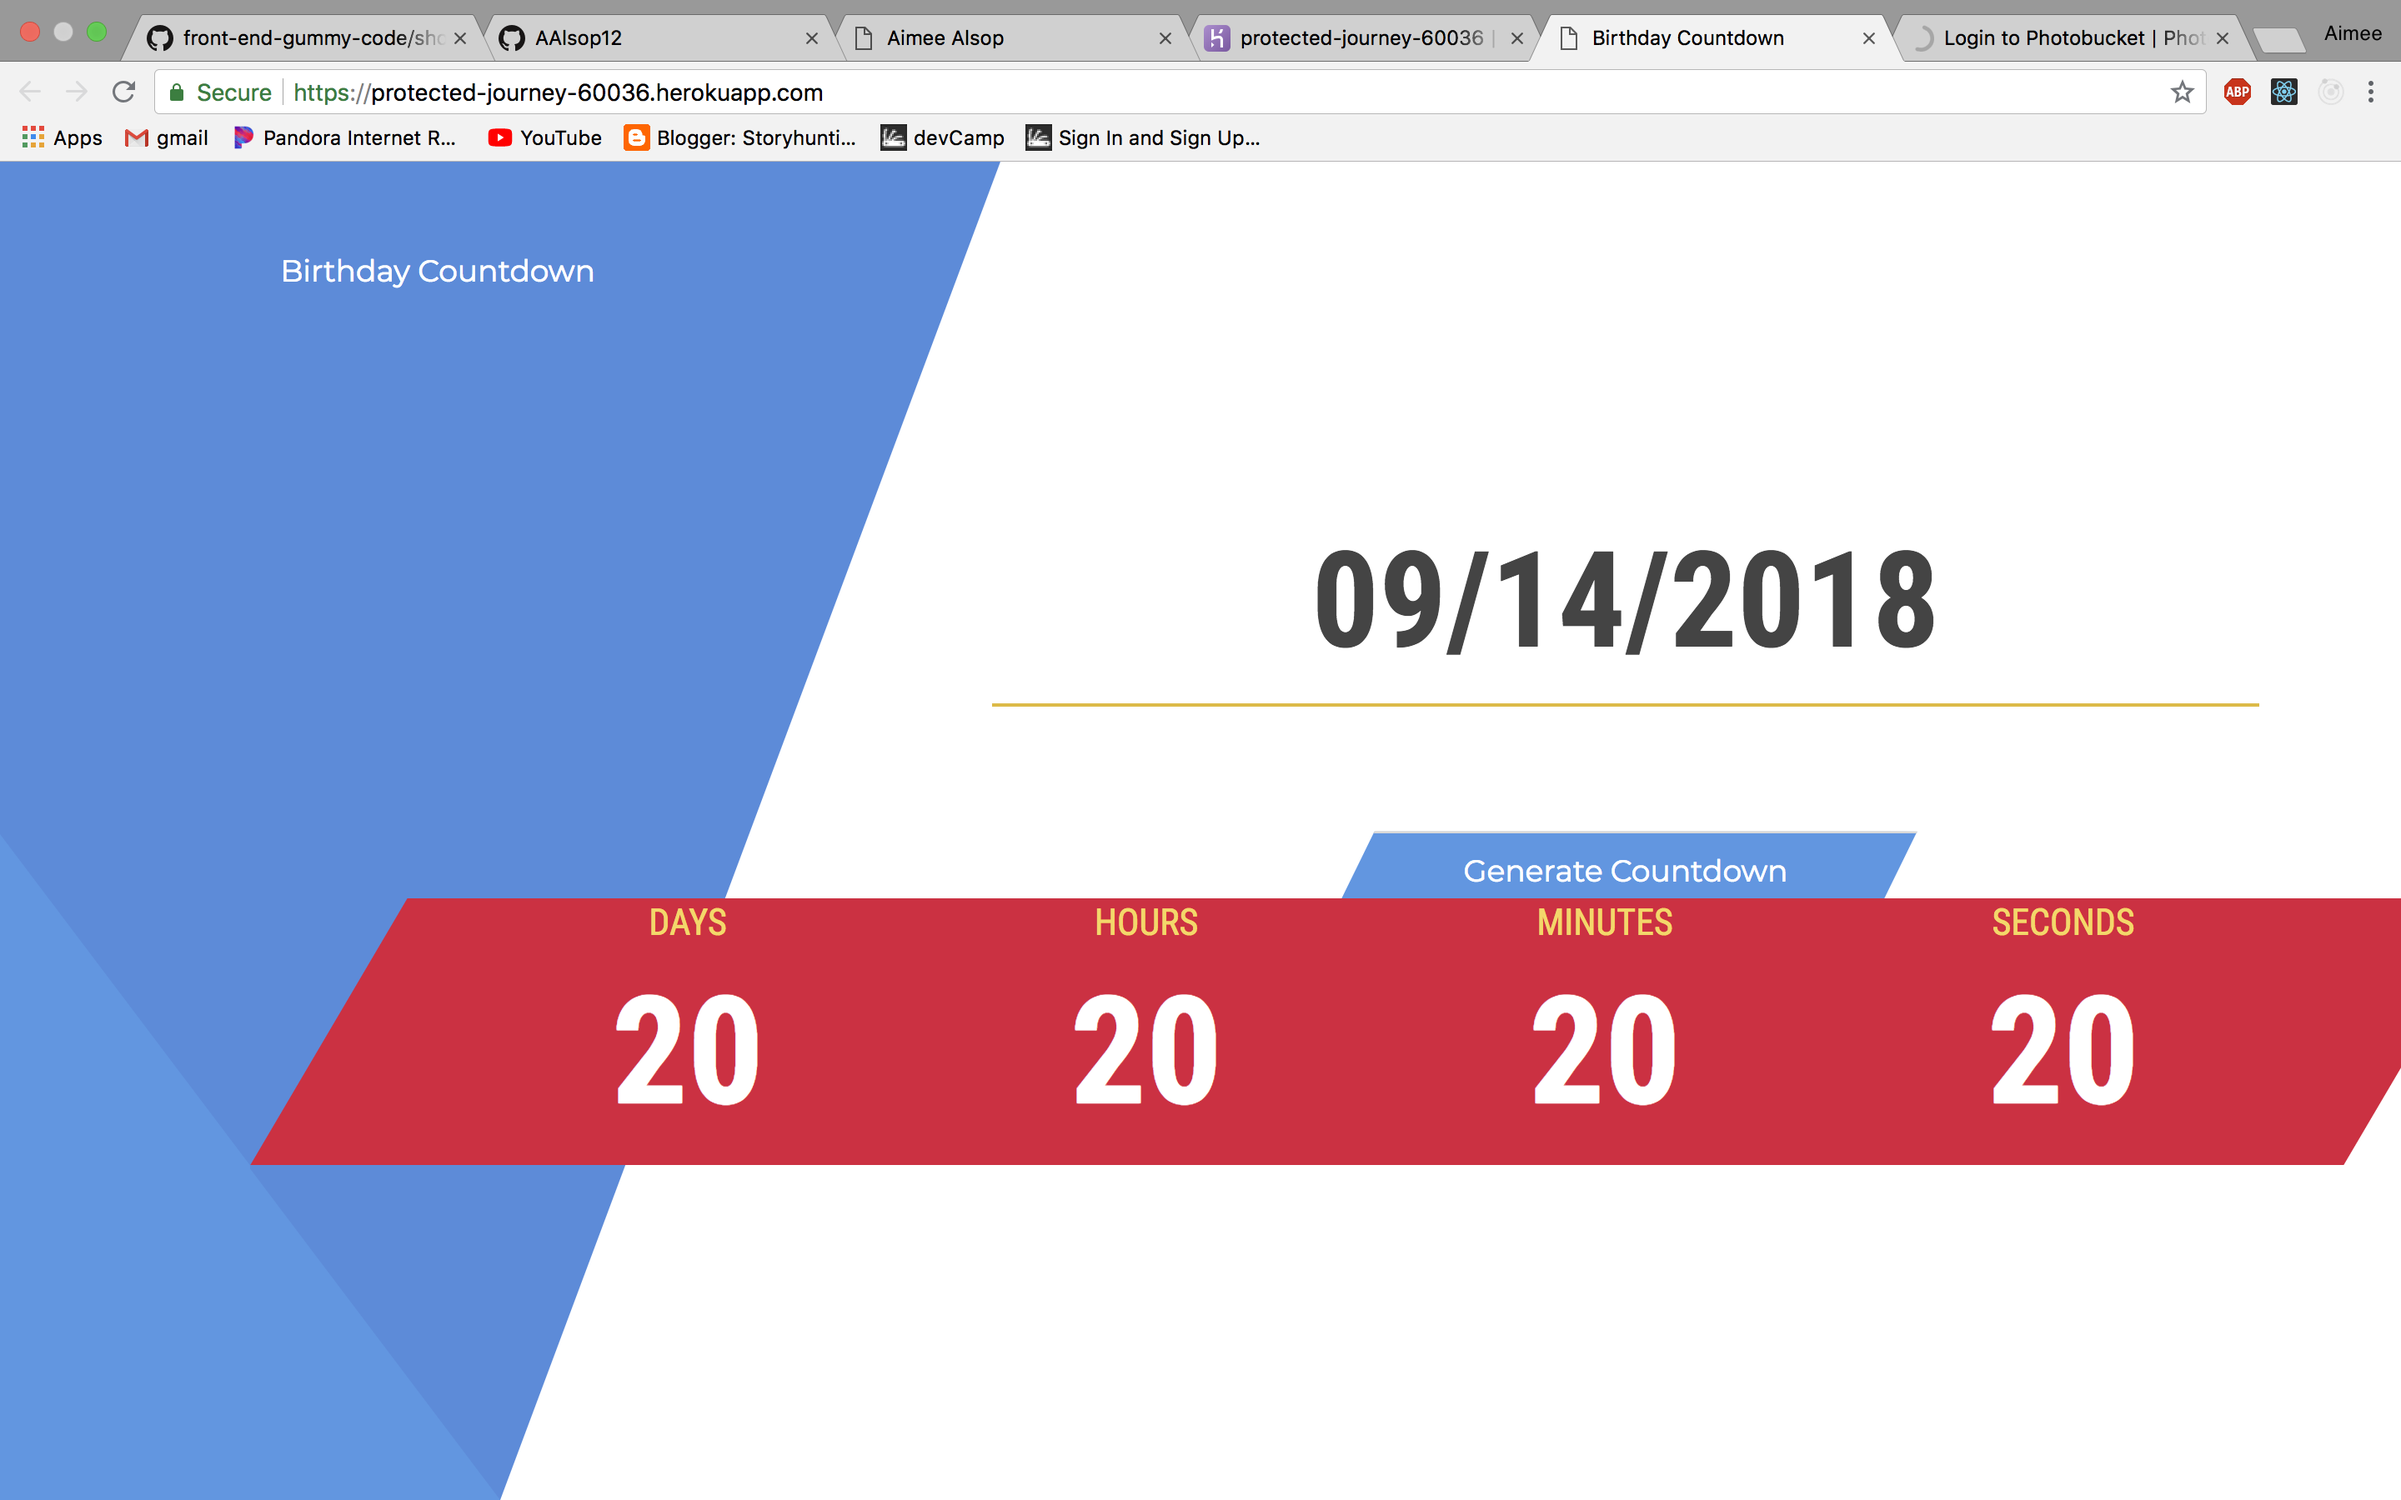
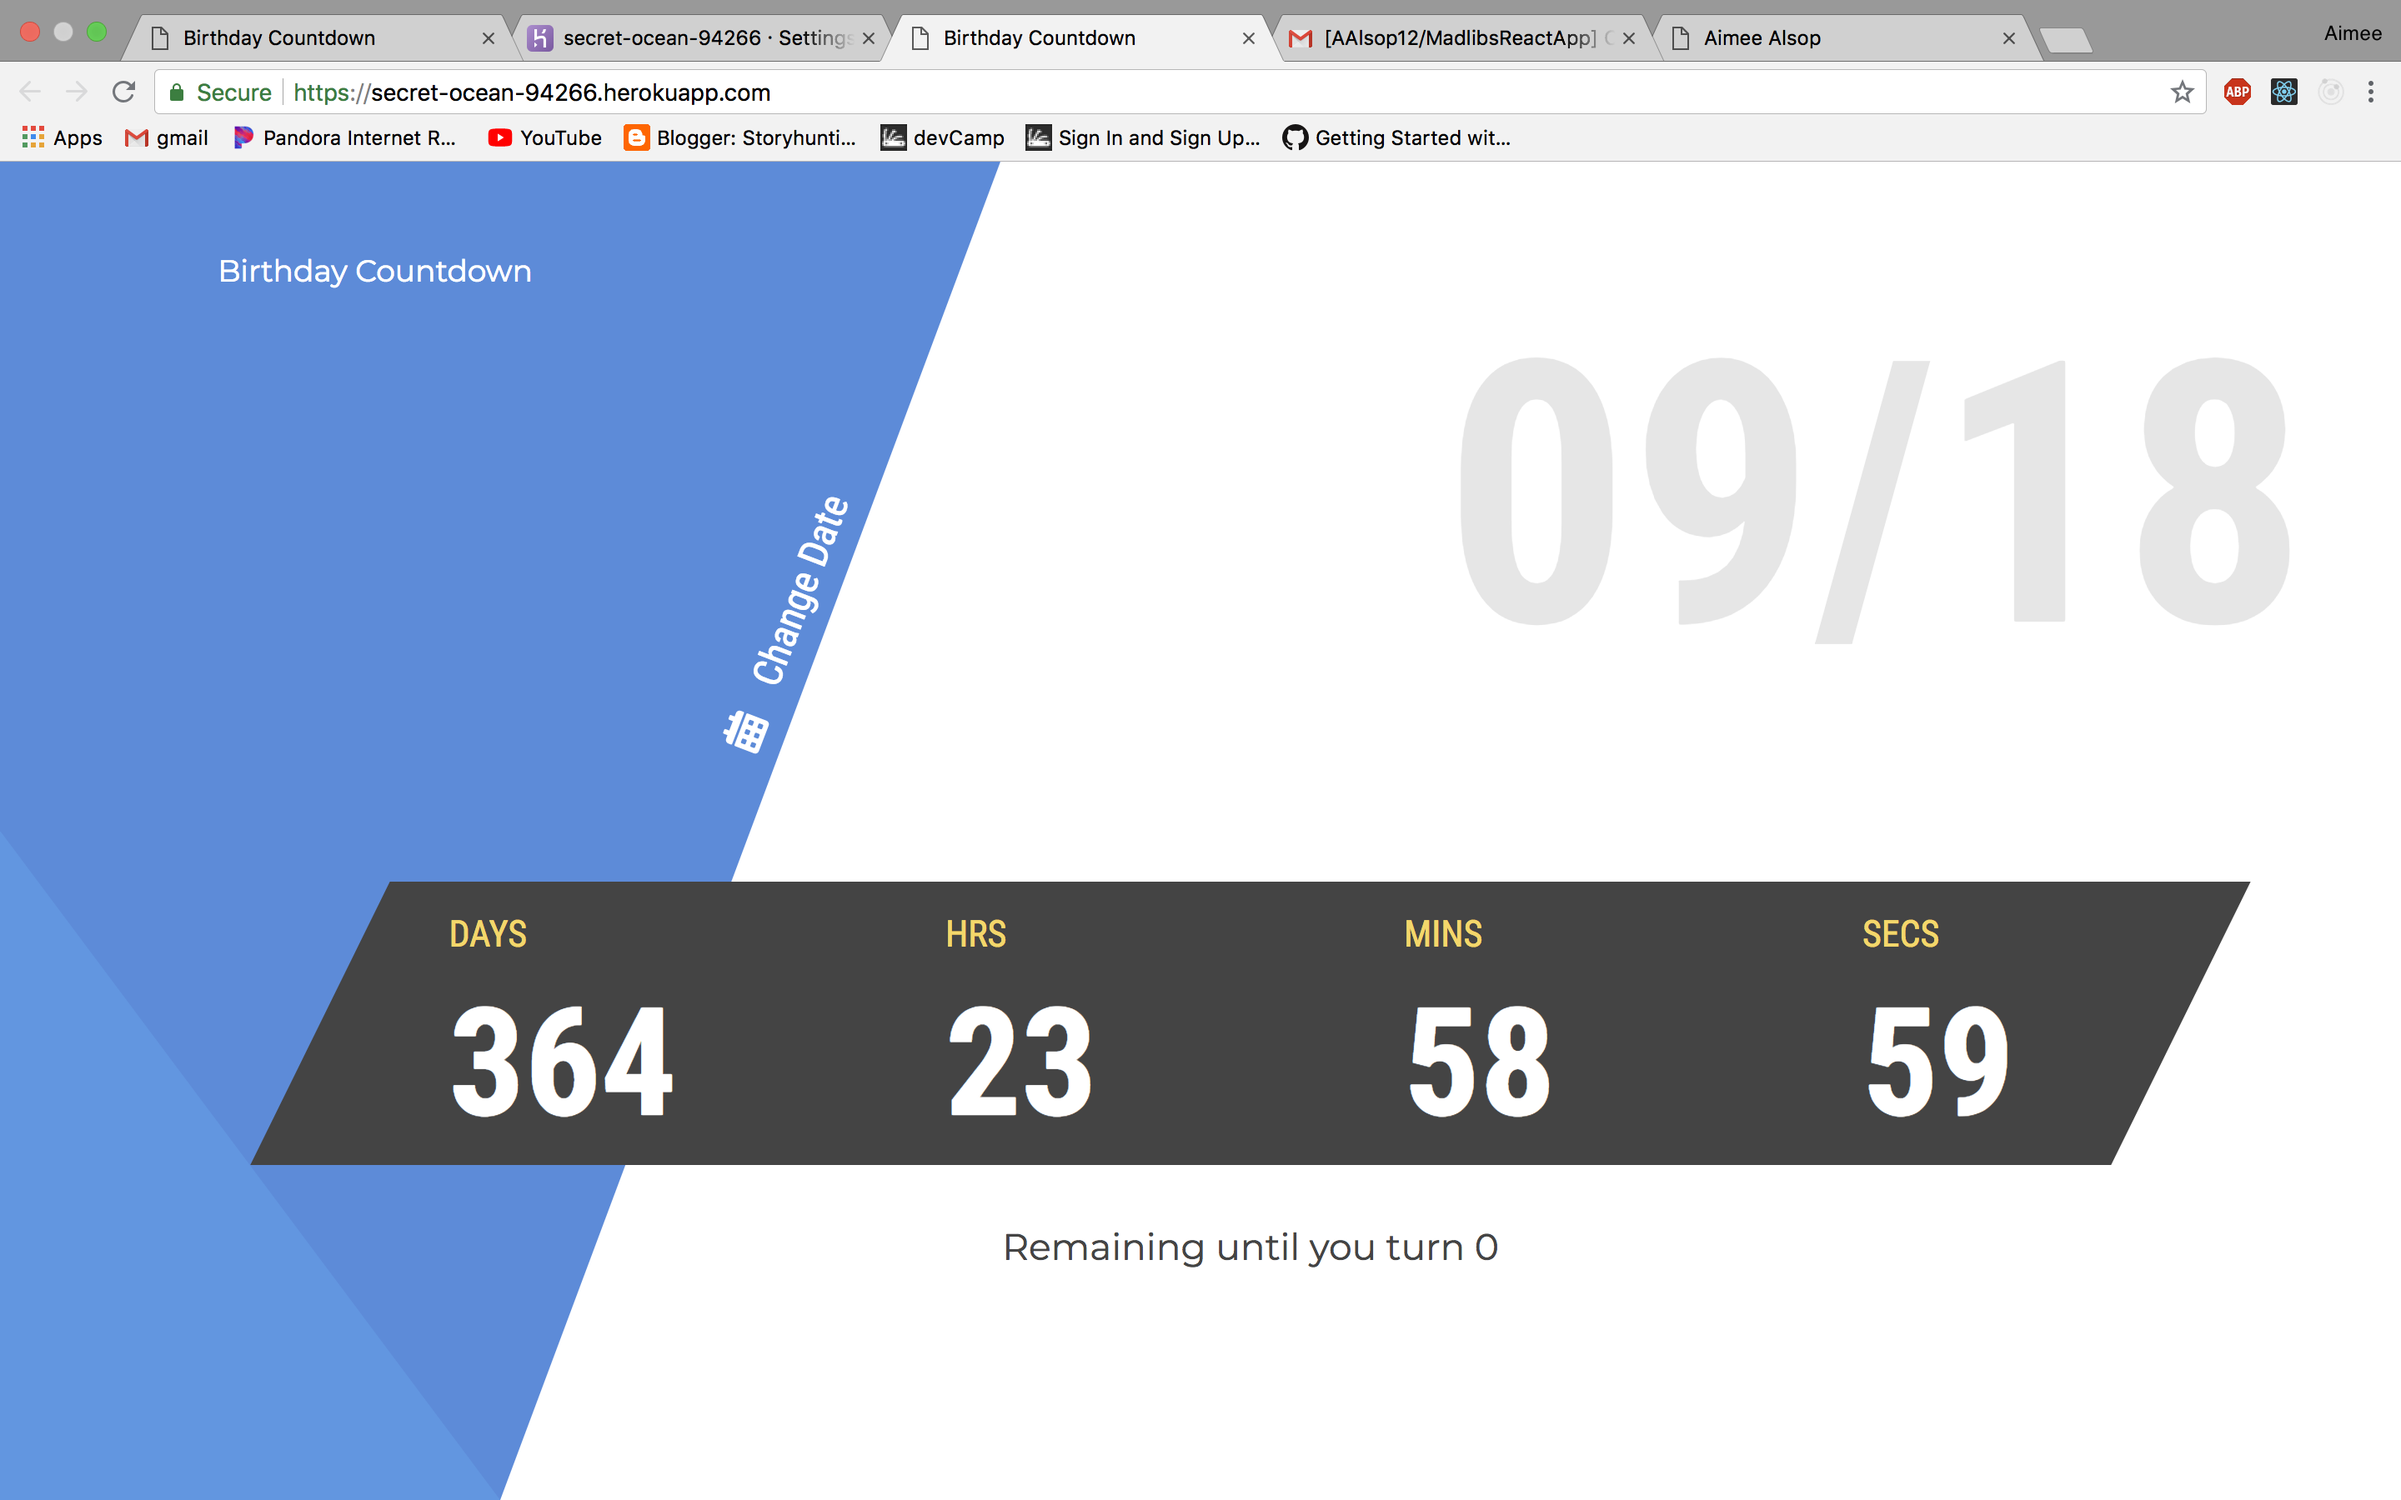
fixed countdown app

diff --git a/src/components/portfolio/portfolio.js b/src/components/portfolio/portfolio.js
@@ -16,8 +16,8 @@ class Portfolio extends Component {
                     <a className="madlibs__pic" href="https://madlibs23454.herokuapp.com/">                
                          <img src="madlibs.png" width='200' height='150'/>
                     </a>
-                <Project className='countdown' title='Countdown' link="https://protected-journey-60036.herokuapp.com/"/>
-                    <a className="countdown__pic" href="https://protected-journey-60036.herokuapp.com/">                
+                <Project className='countdown' title='Countdown' link="https://secret-ocean-94266.herokuapp.com/"/>
+                    <a className="countdown__pic" href="https://secret-ocean-94266.herokuapp.com/">                
                          <img src="countdown.png" width='200' height='150'/>
                     </a>
                 <Project className='schedule' title='Scheduling' link="https://course-scheduling.herokuapp.com"/>
